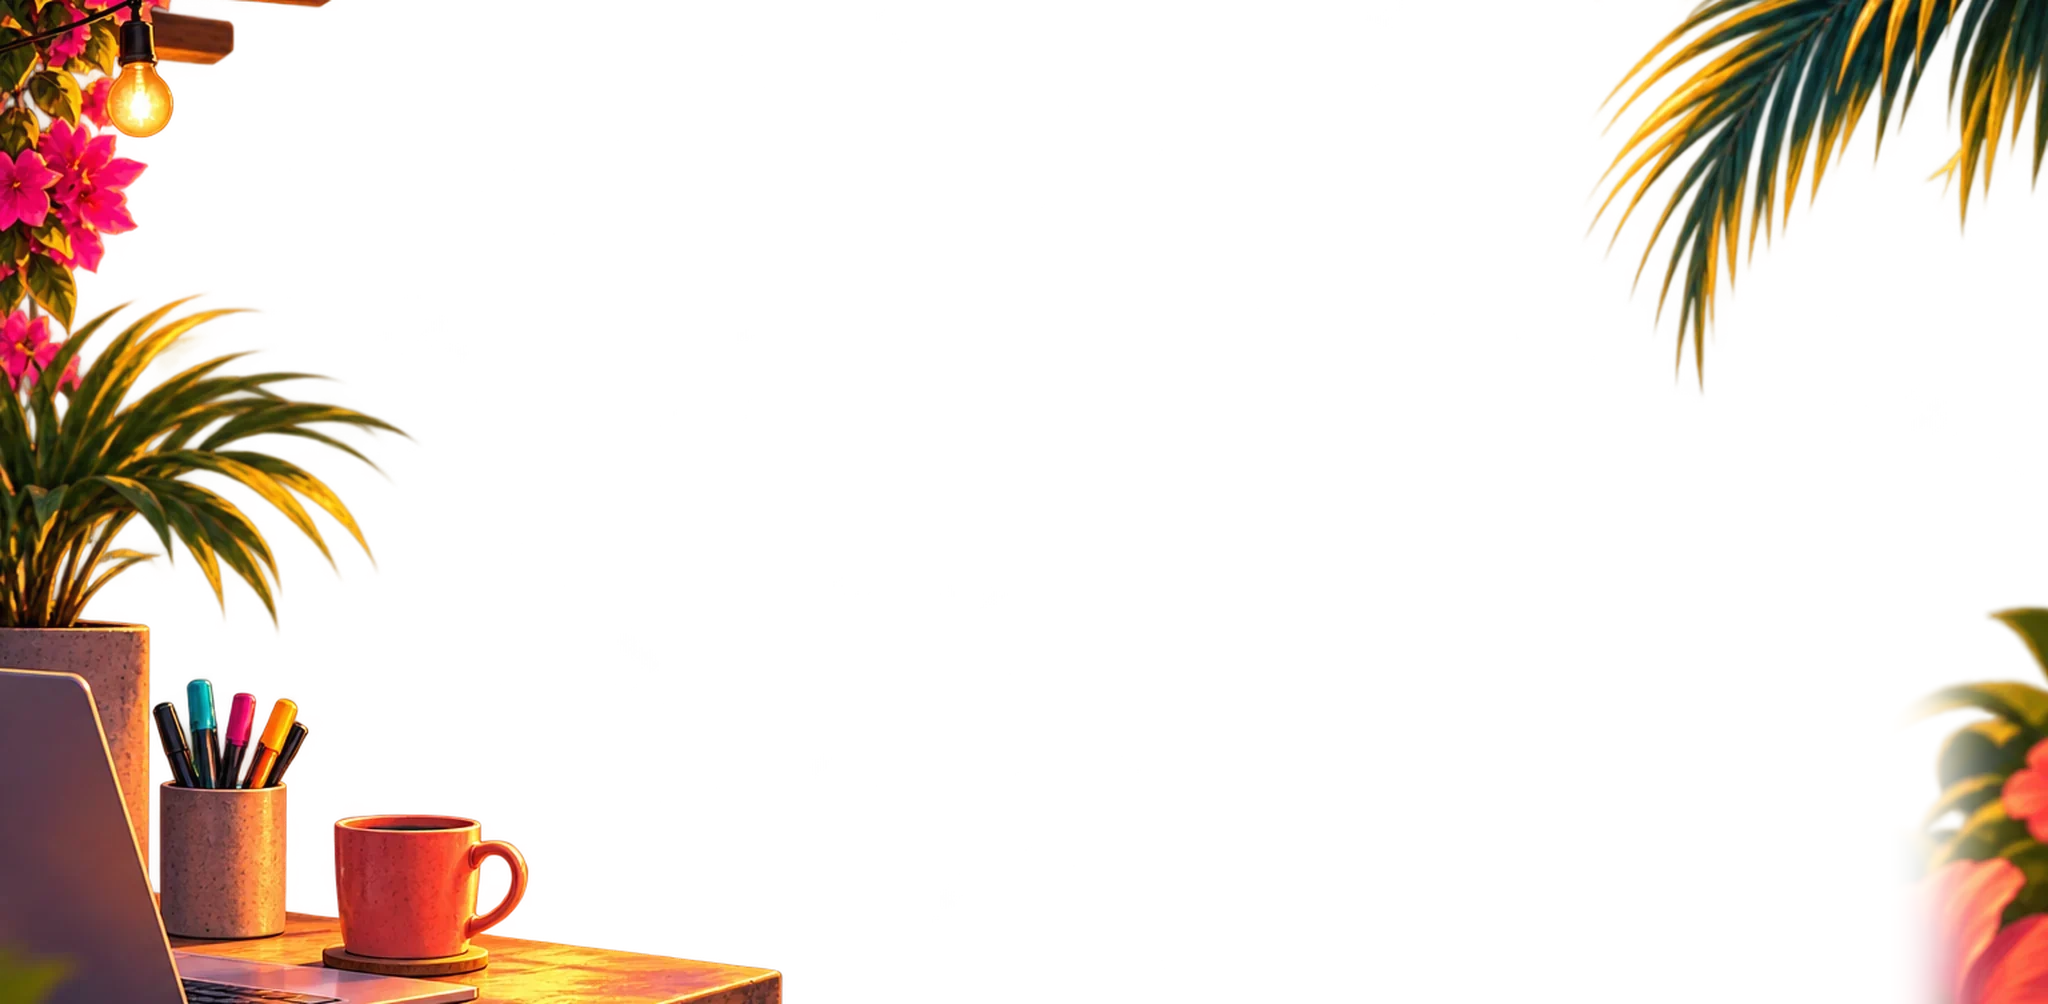
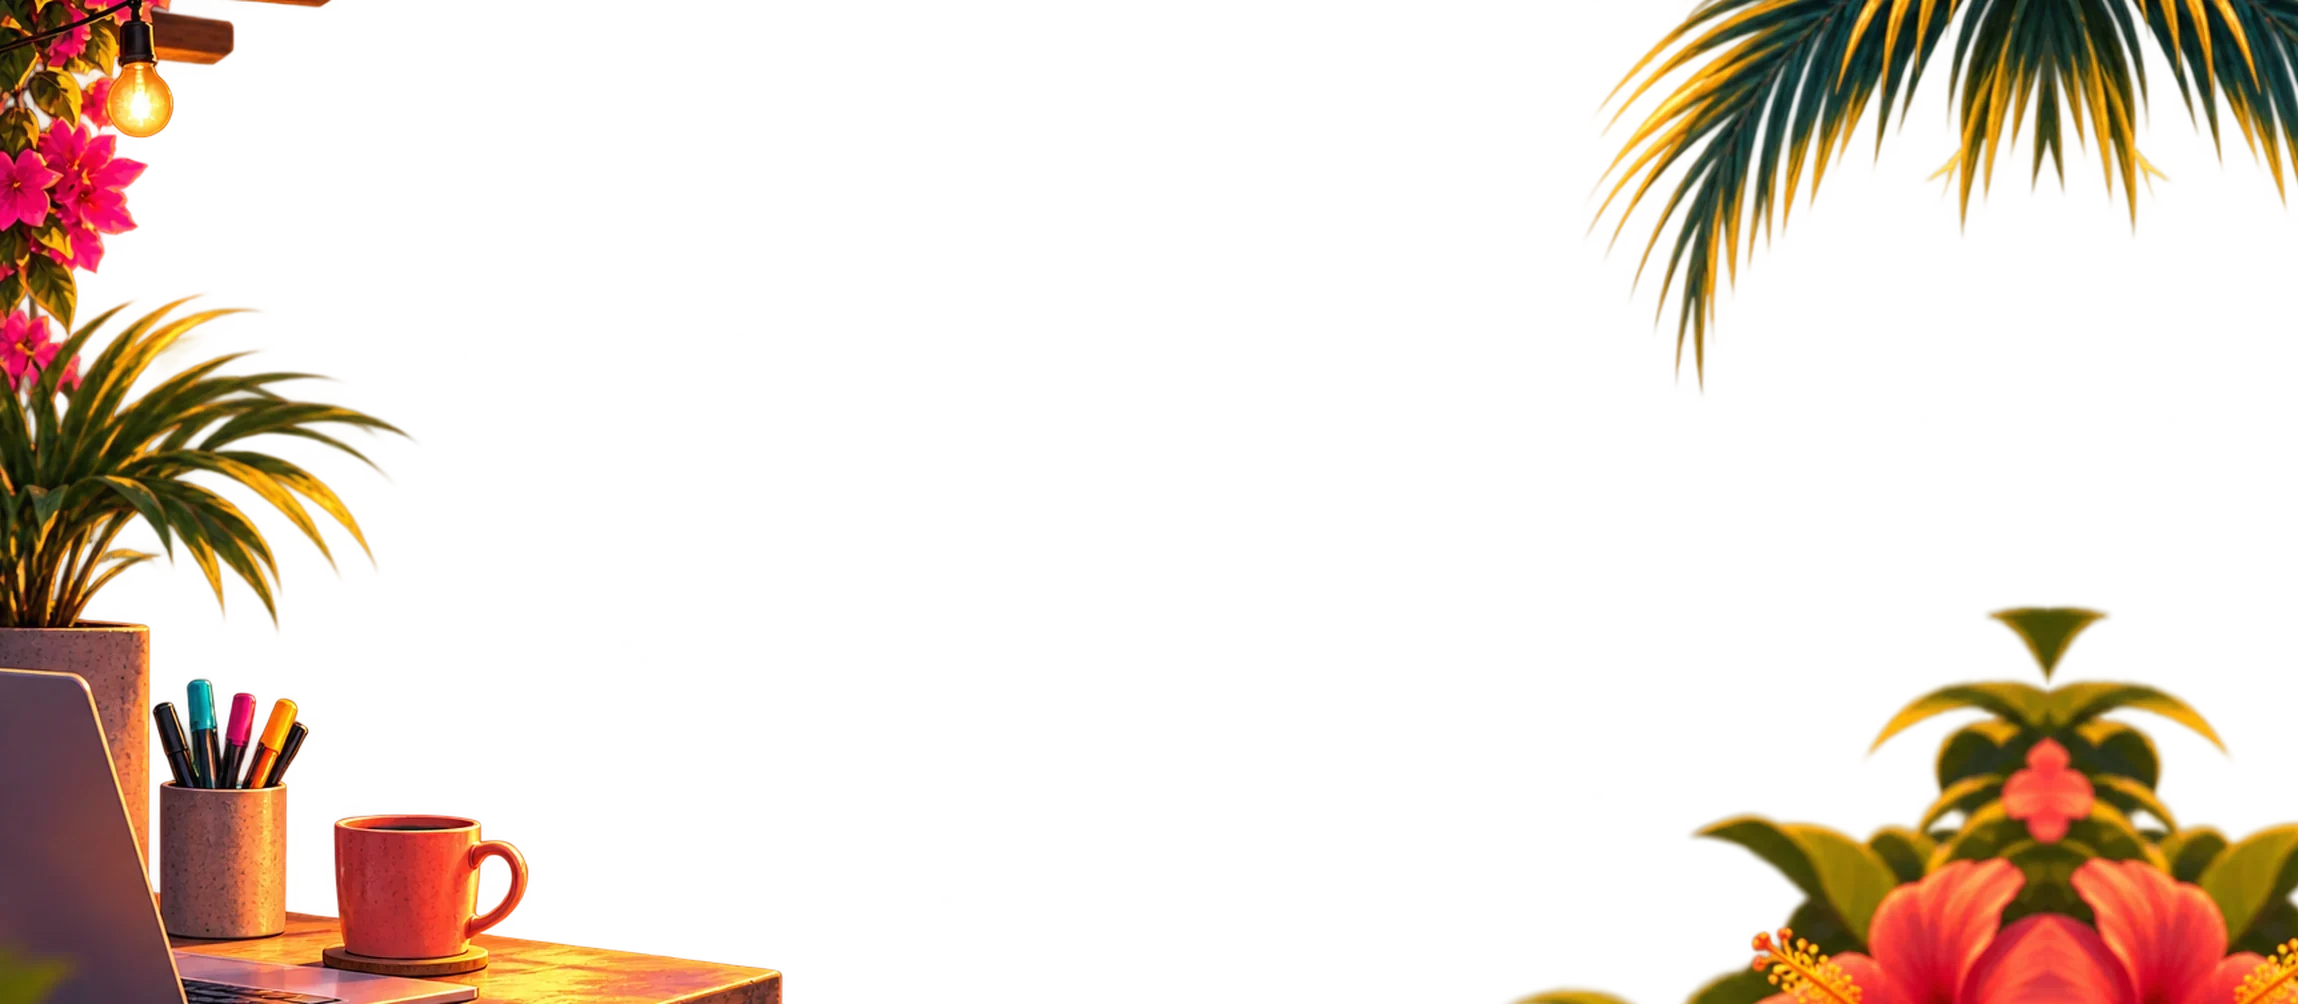
Extend build foreground, larger subjects, edge-to-gutter scrim, new intro subject
Claude-Session: https://claude.ai/code/session_01BK5deQnhW4wKJMYSBAt9fq

Changed region(s): [[0.0, 0.0, 0.4062, 1.0], [0.6562, 0.5867, 1.0, 1.0], [0.6875, 0.0, 1.0, 0.3705]]

diff --git a/ideas-into-worlds/index.html b/ideas-into-worlds/index.html
@@ -216,14 +216,14 @@ const SPREADS=[
 ];
 // illustrated spreads: fixed background plate + subject + foreground, each its own parallax layer
 const ART={
-  final:{bg:'assets/build-bg.webp',subj:'assets/build-subject.webp',fg:'assets/build-fg.webp',sx:200,sy:30,sh:1380,tcx:1335,tw:1400,fgx:-150,shK:.55,shD:-.045,shY:26,shX:.5,dS:.6,dF:1.35},
+  final:{bg:'assets/build-bg.webp',subj:'assets/build-subject.webp',fg:'assets/build-fg.webp',sx:200,sy:30,sh:1380,iw:570,fgk:1.1220703125,tcx:1335,tw:1400,fgx:-150,shK:.55,shD:-.045,shY:26,shX:.5,dS:.6,dF:1.35},
   intro:{bg:'assets/intro-bg.webp',subj:'assets/intro-subject.webp',fg:'assets/intro-fg.webp',side:'L',sx:1190,sy:45,sh:1300,tcx:690,tw:1280,fgx:150,shK:.55,shD:-.045,shY:26,shX:.5,dS:.6,dF:1.35},
   system:{bg:'assets/system-bg.webp',subj:'assets/system-subject.webp',fg:'assets/system-fg.webp',side:'L',sx:1180,sy:50,sh:1260,tcx:640,tw:1150,fgx:150,shK:.55,shD:-.045,shY:26,shX:.5,dS:.6,dF:1.35},
-  move:{bg:'assets/move-bg.webp',subj:'assets/move-subject.webp',fg:'assets/move-fg.webp',sx:250,sy:345,sh:640,fgx:-150,shK:.55,shD:-.045,shY:26,shX:.5,dS:.6,dF:1.35},
+  move:{bg:'assets/move-bg.webp',subj:'assets/move-subject.webp',fg:'assets/move-fg.webp',sx:214,sy:265,sh:720,fgx:-150,shK:.55,shD:-.045,shY:26,shX:.5,dS:.6,dF:1.35},
   listen:{bg:'assets/listen-bg.webp',subj:'assets/listen-subject.webp',fg:'assets/listen-fg.webp',sx:486,sy:150,sh:870,fgx:-190,shK:.55,shD:-.045,shY:26,shX:.56,dS:.6,dF:1.35},
-  idea:{bg:'assets/idea-bg.webp',subj:'assets/idea-subject.webp',fg:'assets/idea-fg.webp',sx:640,sy:236,sh:770,fgx:-150,shK:.55,shD:-.045,shY:26,shX:.5,dS:.6,dF:1.35},
+  idea:{bg:'assets/idea-bg.webp',subj:'assets/idea-subject.webp',fg:'assets/idea-fg.webp',sx:624,sy:141,sh:865,fgx:-150,shK:.55,shD:-.045,shY:26,shX:.5,dS:.6,dF:1.35},
   sketch:{bg:'assets/sketch-bg.webp',subj:'assets/sketch-subject.webp',fg:'assets/sketch-fg.webp',sx:250,sy:176,sh:820,fgx:-150,shK:.55,shD:-.045,shY:26,shX:.5,dS:.6,dF:1.35},
-  test:{bg:'assets/test-bg.webp',subj:'assets/test-subject.webp',fg:'assets/test-fg.webp',side:'L',sx:985,sy:246,sh:755,fgx:150,shK:.55,shD:-.045,shY:26,shX:.5,dS:.6,dF:1.35},
+  test:{bg:'assets/test-bg.webp',subj:'assets/test-subject.webp',fg:'assets/test-fg.webp',side:'L',sx:964,sy:151,sh:850,fgx:150,shK:.55,shD:-.045,shY:26,shX:.5,dS:.6,dF:1.35},
   borrow:{bg:'assets/borrow-bg.webp',subj:'assets/borrow-subject.webp',fg:'assets/borrow-fg.webp',sx:300,sy:96,sh:930,fgx:-120,shK:.55,shD:-.045,shY:26,shX:.5,dS:.6,dF:1.35}
 };
 const loadImg=src=>new Promise(r=>{const im=new Image();im.decoding='async';im.onload=()=>r(im);im.onerror=()=>r(null);im.src=src});
@@ -232,7 +232,7 @@ const LM=.04; // layer overscan, so parallax never reveals an empty edge
 
 // free text on the illustration: soft scrim, no box; only the tip keeps its box. The big word is its own layer.
 function ruleText(x,s,part){
-  const L=s.art&&s.art.side==='L',x0=L?118:1150,iw=810,sh=(t,X,Y)=>{x.fillStyle='rgba(6,45,49,.85)';x.fillText(t,X+3,Y+3);x.fillStyle=C;x.fillText(t,X,Y)};
+  const L=s.art&&s.art.side==='L',x0=L?118:1150,iw=(s.art&&s.art.iw)||810,sh=(t,X,Y)=>{x.save();x.shadowColor='rgba(4,28,30,.85)';x.shadowBlur=18;x.fillStyle='rgba(6,45,49,.85)';x.fillText(t,X+3,Y+3);x.restore();x.fillStyle='rgba(6,45,49,.85)';x.fillText(t,X+3,Y+3);x.fillStyle=C;x.fillText(t,X,Y)};
   const lay=(draw,y0)=>{let y=y0;x.textAlign='left';x.textBaseline='alphabetic';
     x.font='500 21px "DM Mono"';LS(x,'3px');if(draw)sh((s.kicker||('Studio rule ✦ '+s.k)).toUpperCase(),x0,y);y+=62;
     x.font='800 54px "Barlow Condensed"';LS(x,'0px');for(const l of wrap(x,s.title.toUpperCase(),iw)){if(draw)sh(l,x0,y);y+=54}y+=12;
@@ -246,9 +246,9 @@ function ruleText(x,s,part){
   const h=lay(false,0),top=PH-78-h;
   // as big as the original flat spreads, spanning both pages but weighted to the right; the subject stands in front of it
   if(part==='title'){bigWord(x,s.word,s.art.tcx||(L?PW*2-1210:1210),300,s.art.tw||1620,390,{fill:C,sh:I,ol:PK},L?0.035:-0.04);return}
-  // diagonal scrim: darkest at the outer bottom corner, dissolving toward the inner top corner, so the gutter has no dark band
-  const ox=L?0:PW*2,ix=L?PW:PW,g=x.createLinearGradient(ox,PH,L?PW:PW,0);
-  g.addColorStop(0,'rgba(4,28,30,.84)');g.addColorStop(.5,'rgba(4,28,30,.62)');g.addColorStop(.8,'rgba(4,28,30,.24)');g.addColorStop(1,'rgba(4,28,30,0)');
+  // diagonal scrim: darkest at the outer bottom corner, gone before it reaches the gutter, so no dark band shows where the pages meet
+  const ox=L?0:PW*2,g=x.createLinearGradient(ox,PH,PW,PH*.12);
+  g.addColorStop(0,'rgba(4,28,30,.82)');g.addColorStop(.3,'rgba(4,28,30,.5)');g.addColorStop(.5,'rgba(4,28,30,.16)');g.addColorStop(.62,'rgba(4,28,30,0)');
   x.fillStyle=g;x.fillRect(L?0:PW,0,PW,PH);
   lay(true,top+19);
 }
@@ -269,7 +269,7 @@ function drawSpread(s,mode='full',m=0){
       const g=x.createRadialGradient(fx0,fy0,4,fx0,fy0,w*.42);g.addColorStop(0,'rgba(20,10,30,.72)');g.addColorStop(1,'rgba(20,10,30,0)');
       x.save();x.translate(fx0,fy0);x.scale(1,.18);x.translate(-fx0,-fy0);x.fillStyle=g;x.beginPath();x.arc(fx0,fy0,w*.42,0,7);x.fill();x.restore();
       x.globalAlpha=1;x.drawImage(A.subj,A.sx,A.sy,w,h)}
-    if(WO)x.drawImage(A.fg,-fx+(A.fgx||0),-fy,PW*2+fx*2,PH+fy*2);
+    if(WO)x.drawImage(A.fg,-fx+(A.fgx||0),-fy,(PW*2+fx*2)*(A.fgk||1),PH+fy*2);
     return c}
   if(B){x.fillStyle=s.bg;x.fillRect(0,0,PW*2,PH)}
   if(s.type==='intro'){
